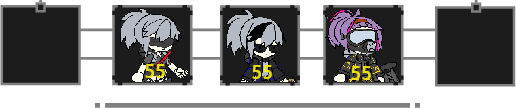
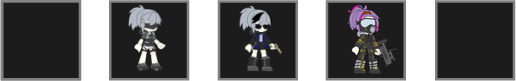
UI images added

diff --git a/source/Game/Modes/Game.cpp b/source/Game/Modes/Game.cpp
@@ -70,7 +70,7 @@ void Game::Load()
 	else
 	{
         gameobjectmanager->Add(new random_tower_Button({ 490 + 102, 35 }, { 78, 78 }));
-        //tower_ui = GAM200::Texture("assets/buttons/tower_ui.png");
+        //tower_ui = GAM200::Texture("assets/buttons/tower_ui_random.png");
 	}
     gameobjectmanager->Add(new GameSpeed_Button({ 976, 708 }, { 77, 77 }));
     gameobjectmanager->Add(new Skip_Button({ 1071, 708 }, { 77, 77 }));
@@ -148,7 +148,10 @@ void Game::Draw()
     GetGSComponent<GAM200::GameObjectManager>()->DrawParticle(camera_matrix);
 
     Unit* unit = GetGSComponent<GAM200::GameObjectManager>()->GetInfoTarget(); if (unit != nullptr) unit->ShowInfo();
-    tower_ui.Draw(380, 35, 514, 108);
+    if (Button::random)
+        tower_ui_random.Draw(380, 35, 514, 108);
+    else
+		tower_ui_no_random.Draw(380, 35, 514, 108);
 
 #if IfWantShader
 	if (GetGSComponent<Wave>()->IsResting())
@@ -156,9 +159,12 @@ void Game::Draw()
     ShaderDrawing::draw_text("Gold: " + std::to_string(GetGSComponent<Gold>()->GetCurrentGold()), 1100, 530, 50, 255, 255, 255);
     ShaderDrawing::draw_text("Monster: " + std::to_string(Monster::GetRemainingMonster()) + "/" + std::to_string(GetGSComponent<MonsterLimit>()->GetLimit()), 1100, 460, 50, 255, 255, 255);
 	ShaderDrawing::draw_text("Wave: " + std::to_string(GetGSComponent<Wave>()->GetCurWave() + 1) + "/" + std::to_string(GetGSComponent<Wave>()->GetMaxWave()), 1100, 390, 50, 255, 255, 255);
-    ShaderDrawing::draw_text(std::to_string(unit_cost), 531, 64, 25, 1.0f, 1.0f, 0.0f);
-    ShaderDrawing::draw_text(std::to_string(unit_cost), 638, 64, 25, 1.0f, 1.0f, 0.0f);
-    ShaderDrawing::draw_text(std::to_string(unit_cost), 745, 64, 25, 1.0f, 1.0f, 0.0f);
+    if (!Button::random)
+    {
+        ShaderDrawing::draw_text(std::to_string(unit_cost), 531, 34, 25, 1.0f, 1.0f, 0.0f);
+        ShaderDrawing::draw_text(std::to_string(unit_cost), 745, 34, 25, 1.0f, 1.0f, 0.0f);
+    }
+    ShaderDrawing::draw_text(std::to_string(unit_cost), 638, 34, 25, 1.0f, 1.0f, 0.0f);
 #else
 	trash->Draw(Math::TranslationMatrix(Math::ivec2{ -100, -100 }));
 	time->Draw(Math::TranslationMatrix(Math::ivec2{ 910, 700 }));

diff --git a/source/Game/Modes/Tutorial.cpp b/source/Game/Modes/Tutorial.cpp
@@ -216,9 +216,9 @@ void Tutorial::Draw()
     ShaderDrawing::draw_text("Gold: " + std::to_string(GetGSComponent<Gold>()->GetCurrentGold()), 1100, 530, 50, 255, 255, 255);
     ShaderDrawing::draw_text("Monster: " + std::to_string(Monster::GetRemainingMonster()) + "/" + std::to_string(GetGSComponent<MonsterLimit>()->GetLimit()), 1100, 460, 50, 255, 255, 255);
     ShaderDrawing::draw_text("Wave: " + std::to_string(GetGSComponent<Wave>()->GetCurWave() + 1) + "/" + std::to_string(GetGSComponent<Wave>()->GetMaxWave()), 1100, 390, 50, 255, 255, 255);
-    ShaderDrawing::draw_text(std::to_string(unit_cost), 531, 64, 25, 1.0f, 1.0f, 0.0f);
-    ShaderDrawing::draw_text(std::to_string(unit_cost), 638, 64, 25, 1.0f, 1.0f, 0.0f);
-    ShaderDrawing::draw_text(std::to_string(unit_cost), 745, 64, 25, 1.0f, 1.0f, 0.0f);
+    ShaderDrawing::draw_text(std::to_string(unit_cost), 531, 34, 25, 1.0f, 1.0f, 0.0f);
+    ShaderDrawing::draw_text(std::to_string(unit_cost), 638, 34, 25, 1.0f, 1.0f, 0.0f);
+    ShaderDrawing::draw_text(std::to_string(unit_cost), 745, 34, 25, 1.0f, 1.0f, 0.0f);
 #else
     trash->Draw(Math::TranslationMatrix(Math::ivec2{ -100, -100 }));
     time->Draw(Math::TranslationMatrix(Math::ivec2{ 910, 700 }));

diff --git a/source/Game/Modes/Game.h b/source/Game/Modes/Game.h
@@ -46,7 +46,8 @@ public:
 
 
 #if IfWantShader
-    GAM200::Texture tower_ui = GAM200::Texture("assets/buttons/tower_ui.png");
+    GAM200::Texture tower_ui_no_random = GAM200::Texture("assets/buttons/tower_ui.png");
+    GAM200::Texture tower_ui_random    = GAM200::Texture("assets/buttons/tower_ui_random.png");
 	GAM200::Texture win      = GAM200::Texture("assets/win.png");
 	GAM200::Texture lose     = GAM200::Texture("assets/lose.png");
 #else
